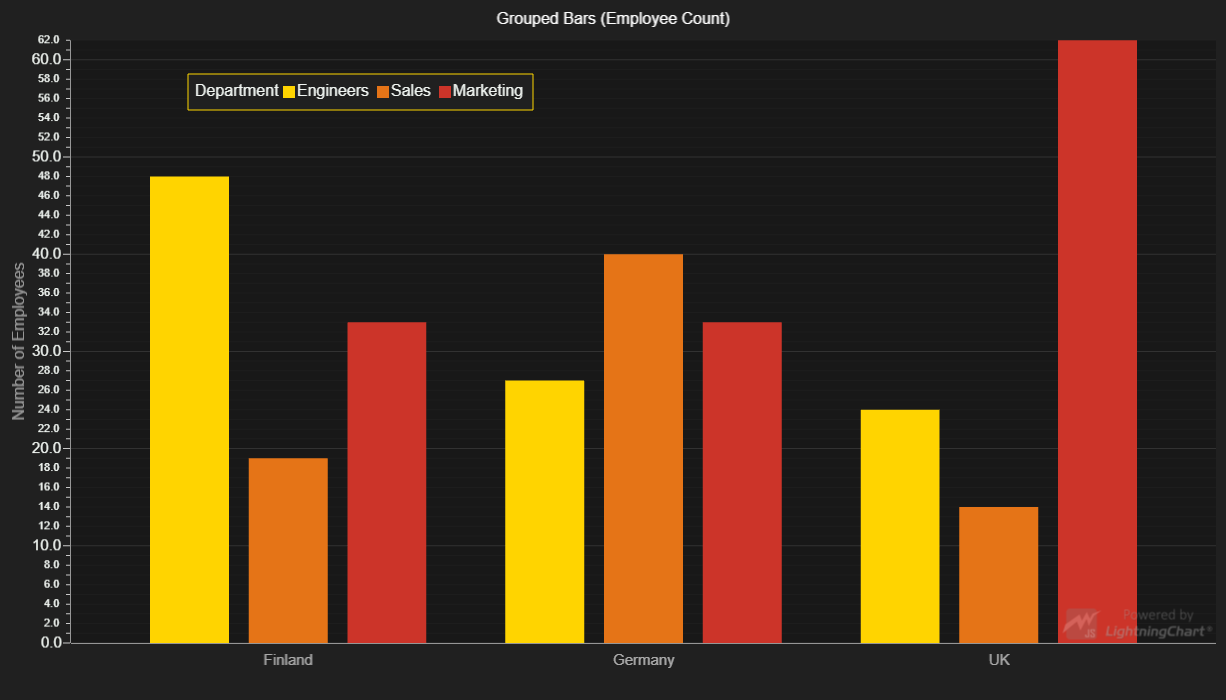
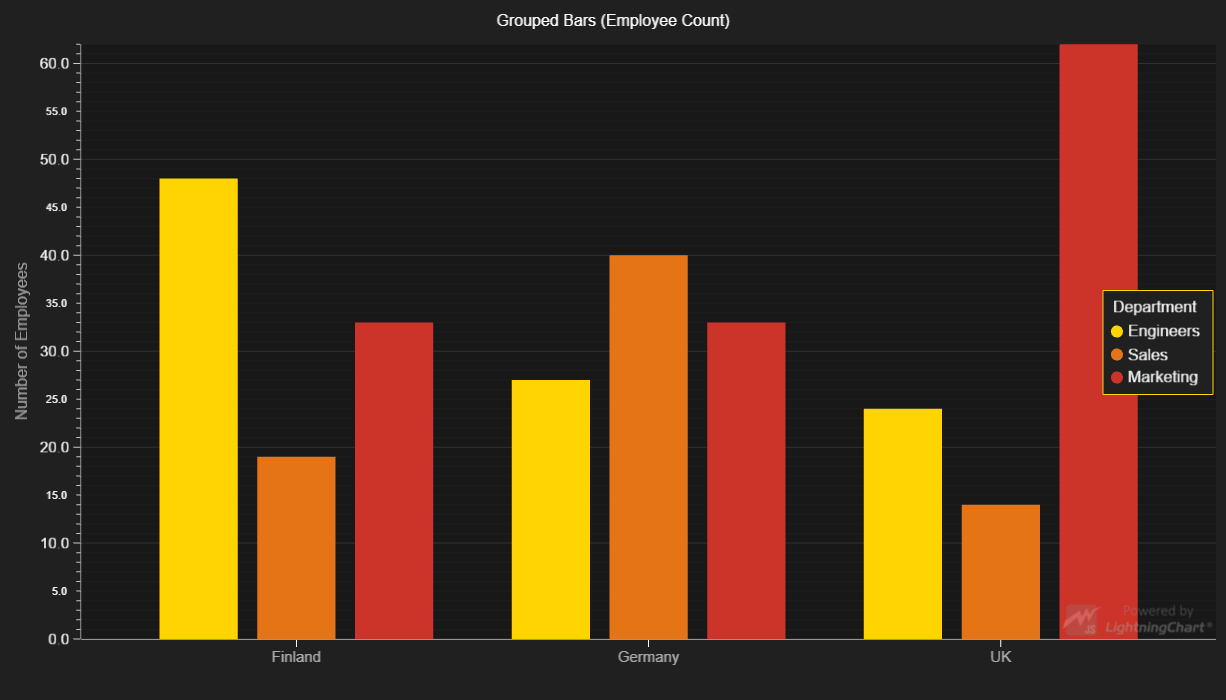
LCJS 3.0.0

diff --git a/src/index.js b/src/index.js
@@ -17,6 +17,7 @@ const {
     LegendBoxBuilders,
     AxisScrollStrategies,
     AxisTickStrategies,
+    UIElementBuilders,
     Themes
 } = lcjs
 
@@ -73,7 +74,7 @@ let barChart
         const createSeriesForCategory = (category) => {
             const series = chart.addRectangleSeries()
             // Change how marker displays its information.
-            series.setResultTableFormatter((builder, series, figure) => {
+            series.setCursorResultTableFormatter((builder, series, figure) => {
                 // Find cached entry for the figure.
                 let entry = {
                     name: category.name,
@@ -89,11 +90,8 @@ let barChart
         //#endregion
         // LegendBox
         //#region
-        const margin = 4
         const legendBox = chart.addLegendBox(LegendBoxBuilders.VerticalLegendBox)
-            .setPosition({ x: 15, y: 90 })
-            .setOrigin(UIOrigins.LeftTop)
-            .setMargin(margin)
+            .setTitle('Department')
 
         //#endregion
         // Function redraws bars chart based on values of 'groups' and 'categories'
@@ -129,14 +127,10 @@ let barChart
             for (const name of names)
                 groups.push({
                     name,
-                    tick: axisX.addCustomTick()
+                    tick: axisX.addCustomTick(UIElementBuilders.AxisTick)
                         .setGridStrokeLength(0)
                         .setTextFormatter((_) => name)
                         .setMarker((marker) => marker
-                            .setBackground((background) => background
-                                .setFillStyle(emptyFill)
-                                .setStrokeStyle(emptyLine)
-                            )
                             .setTextFillStyle(new SolidFill({ color: ColorRGBA(170, 170, 170) }))
                         )
                 })
@@ -147,7 +141,7 @@ let barChart
                 .setName(entry.name)
                 .setDefaultStyle(figure => figure.setFillStyle(entry.fill))
             entry.figures = entry.data.map((value) => series.add({ x: 0, y: 0, width: 0, height: 0 }))
-            legendBox.add(series, true, 'Department')
+            legendBox.add(series)
             categories.push(entry)
             redraw()
         }

diff --git a/README.md b/README.md
@@ -90,17 +90,17 @@ Direct developer email support can be purchased through a [Support Plan][4] or b
 © Arction Ltd 2009-2020. All rights reserved.
 
 
-[XY cartesian chart]: https://www.arction.com/lightningchart-js-api-documentation/v2.2.0/classes/chartxy.html
-[Rectangle series]: https://www.arction.com/lightningchart-js-api-documentation/v2.2.0/classes/rectangleseries.html
-[Solid FillStyle]: https://www.arction.com/lightningchart-js-api-documentation/v2.2.0/classes/solidfill.html
-[Transparent FillStyle]: https://www.arction.com/lightningchart-js-api-documentation/v2.2.0/globals.html#emptyfill
-[Empty LineStyle]: https://www.arction.com/lightningchart-js-api-documentation/v2.2.0/globals.html#emptyline
-[RGBA color factory]: https://www.arction.com/lightningchart-js-api-documentation/v2.2.0/globals.html#colorrgba
-[Color palettes]: https://www.arction.com/lightningchart-js-api-documentation/v2.2.0/globals.html#colorpalettes
-[UI elements builders]: https://www.arction.com/lightningchart-js-api-documentation/v2.2.0/globals.html#uielementbuilders
-[UI position origins]: https://www.arction.com/lightningchart-js-api-documentation/v2.2.0/globals.html#uiorigins
-[Rectangle Series]: https://www.arction.com/lightningchart-js-api-documentation/v2.2.0/classes/rectangleseries.html
-[Auto cursor modes]: https://www.arction.com/lightningchart-js-api-documentation/v2.2.0/enums/autocursormodes.html
-[Axis]: https://www.arction.com/lightningchart-js-api-documentation/v2.2.0/classes/axis.html
-[Scroll strategies]: https://www.arction.com/lightningchart-js-api-documentation/v2.2.0/globals.html#axisscrollstrategies
+[XY cartesian chart]: https://www.arction.com/lightningchart-js-api-documentation/v3.0.0/classes/chartxy.html
+[Rectangle series]: https://www.arction.com/lightningchart-js-api-documentation/v3.0.0/classes/rectangleseries.html
+[Solid FillStyle]: https://www.arction.com/lightningchart-js-api-documentation/v3.0.0/classes/solidfill.html
+[Transparent FillStyle]: https://www.arction.com/lightningchart-js-api-documentation/v3.0.0/globals.html#emptyfill
+[Empty LineStyle]: https://www.arction.com/lightningchart-js-api-documentation/v3.0.0/globals.html#emptyline
+[RGBA color factory]: https://www.arction.com/lightningchart-js-api-documentation/v3.0.0/globals.html#colorrgba
+[Color palettes]: https://www.arction.com/lightningchart-js-api-documentation/v3.0.0/globals.html#colorpalettes
+[UI elements builders]: https://www.arction.com/lightningchart-js-api-documentation/v3.0.0/globals.html#uielementbuilders
+[UI position origins]: https://www.arction.com/lightningchart-js-api-documentation/v3.0.0/globals.html#uiorigins
+[Rectangle Series]: https://www.arction.com/lightningchart-js-api-documentation/v3.0.0/classes/rectangleseries.html
+[Auto cursor modes]: https://www.arction.com/lightningchart-js-api-documentation/v3.0.0/enums/autocursormodes.html
+[Axis]: https://www.arction.com/lightningchart-js-api-documentation/v3.0.0/classes/axis.html
+[Scroll strategies]: https://www.arction.com/lightningchart-js-api-documentation/v3.0.0/globals.html#axisscrollstrategies
 
